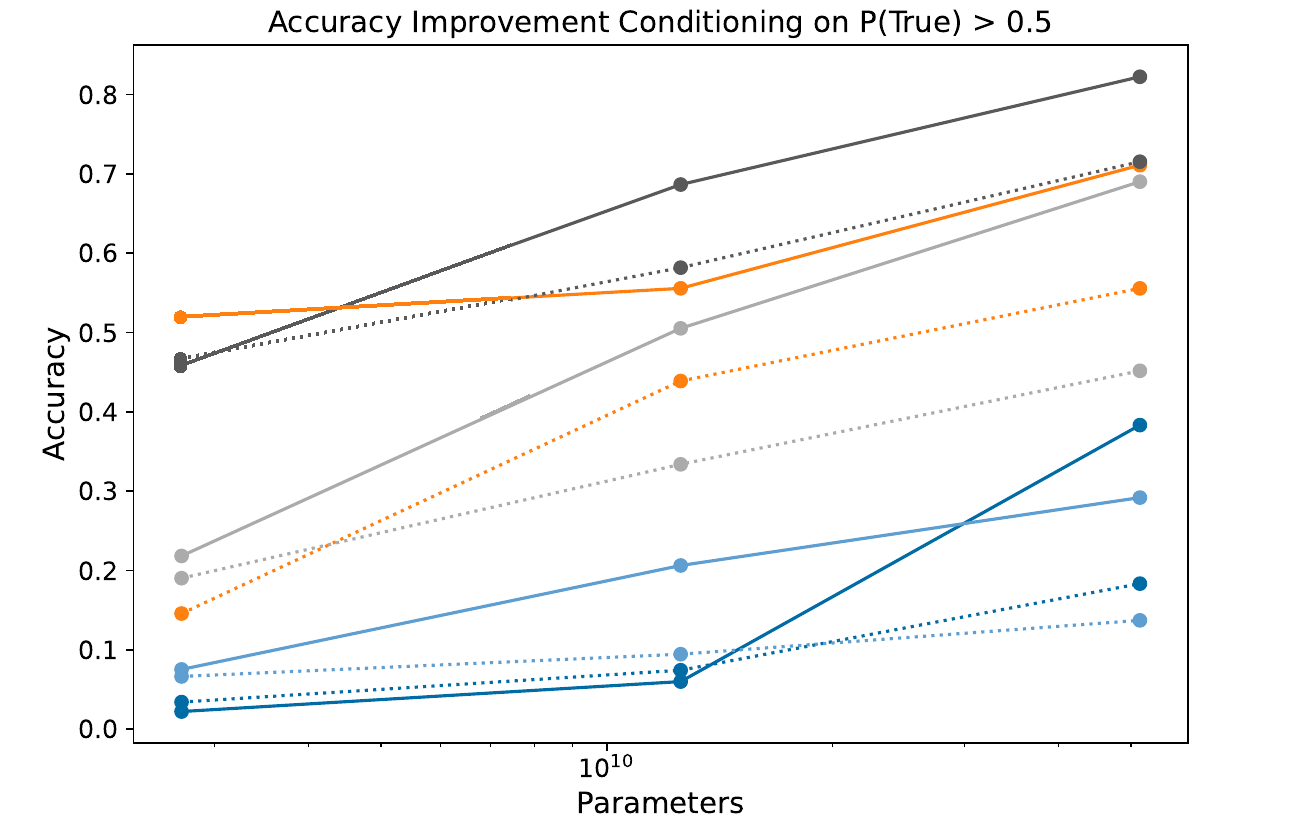
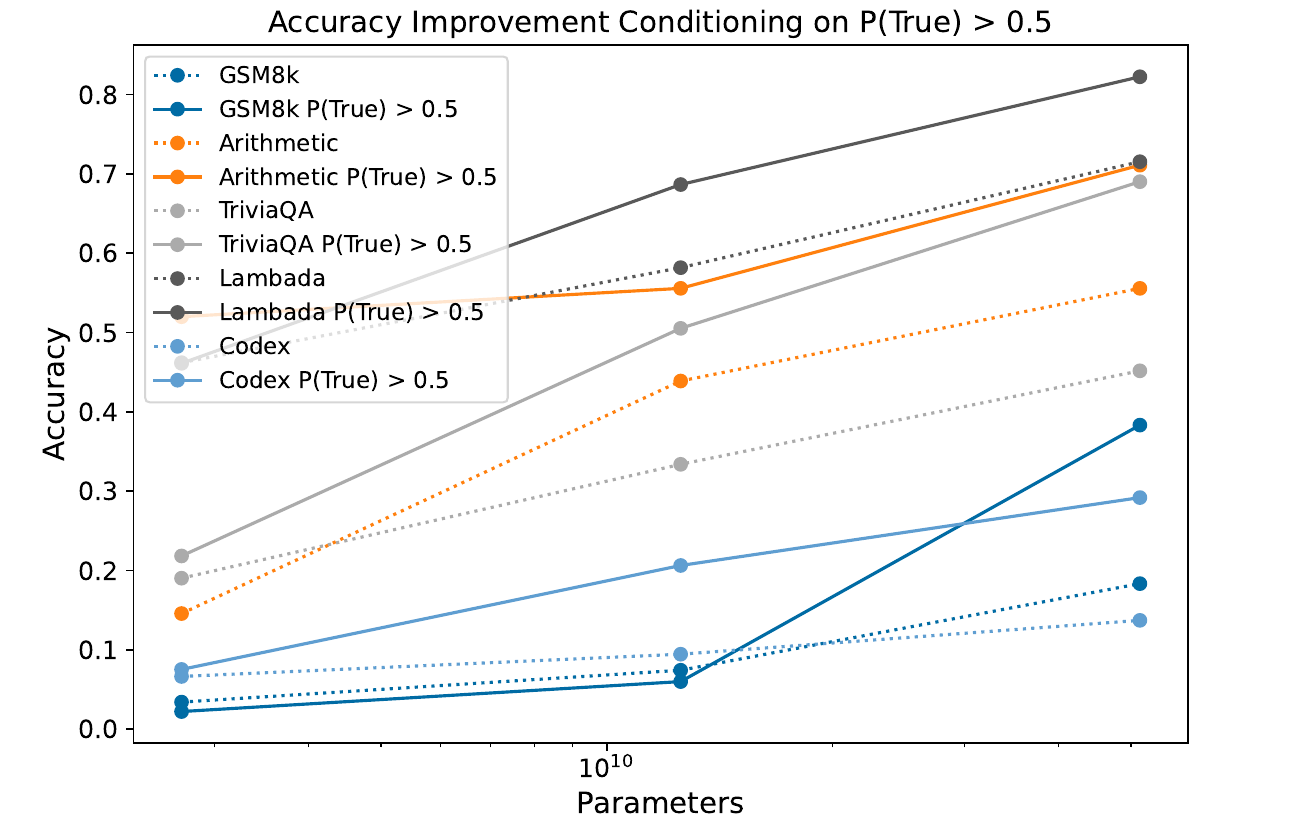
lec06: round-3 review fixes
Kadavath Fig. 1 right restored as an unmodified crop (no reconstructed
segments) with the enlarged key; exact forcing condition on the Kalai
bound; two-option task stated on the trigram slide; deferral-rule note
no longer claims a quantified miss rate and defers on empty sets;
OUTLINE and log 14–15.

Changed region(s): [[0.1236, 0.061, 0.4015, 0.4878], [0.3707, 0.4878, 0.4015, 0.5183]]

diff --git a/courses/trustworthy-ai/lec06-hallucination-note.html b/courses/trustworthy-ai/lec06-hallucination-note.html
@@ -188,21 +188,21 @@ Informally (the paper's 99%-confidence version): <em>hallucination rate $\gtrsim
 
 <article>
 <h2>Poor Model ⇒ Errors, Precisely</h2>
-<p>The theorem: generation error is at least twice the best achievable classification error, minus two small terms. Read it conditionally: if no thresholded model in the family classifies valid versus error responses well, generation must make errors. V3's miscounts show one model failing; they do not show that its whole family must fail.</p>
-<p><span class="kt">Key takeaway:</span> If classification is hard for the whole model family, generation errors are forced.</p>
+<p>The theorem: generation error is at least twice the best achievable classification error, minus two correction terms. Read it conditionally: if no thresholded model in the family classifies valid versus error responses well, generation must make errors. V3's miscounts show one model failing; they do not show that its whole family must fail.</p>
+<p><span class="kt">Key takeaway:</span> Errors are forced when $2\,\mathrm{opt}(\mathcal G) &gt; \max_c|\mathcal V_c| / \min_c|\mathcal E_c| + \delta$.</p>
 <div class="detail">
 <h3>Definitions</h3>
 <p>(Kalai et al. 2025, §3.3.2.) For each prompt $c$, $\mathcal V_c$ and $\mathcal E_c$ are the valid and error responses. $\mathrm{err} := \hat p(\mathcal E) = \sum_{(c,r)\in\mathcal E}\mu(c)\,\hat p(r\mid c)$ is the probability the model generates an error response, with prompts $c \sim \mu$. <strong>The distribution $D$</strong>: with probability $1/2$ draw $x = (c,r) \sim p$ (a valid training dialogue), and with probability $1/2$ draw $c \sim \mu$ and $r$ uniformly from $\mathcal E_c$; the target is $f(x) = +$ iff $x$ is valid. <strong>The term $\delta$</strong>: $\delta := |\hat p(A) - p(A)|$ for $A := \{(c,r) : \hat p(r\mid c) &gt; 1/\min_c|\mathcal E_c|\}$, the gap between how much mass the model and the training distribution put on responses the model rates above that threshold (a calibration-type quantity, small for a calibrated base model). The classifier family thresholds a language model's probability: $g_{\theta,t}(c,r) = +$ if $\hat p_\theta(r\mid c) &gt; t$, else $-$, over all $\theta \in \Theta$, $t \in [0,1]$. Then $\mathrm{opt}(\mathcal G) = \min_{g\in\mathcal G}\Pr_{x\sim D}[g(x)\ne f(x)]$ is the best error of any thresholded model in the family.</p>
 <h3>Theorem &amp; proof</h3>
 <p><strong>Statement</strong> (the paper's §3.3.2, following from its Theorem 1):
 $$\mathrm{err} \;\ge\; 2\,\mathrm{opt}(\mathcal G) \;-\; \frac{\max_c |\mathcal V_c|}{\min_c |\mathcal E_c|} \;-\; \delta.$$
-Proof in the paper (Theorem 1 reduces generation to the Is-It-Valid classification problem). <strong>The bound is conditional.</strong> It forces errors only when $\mathrm{opt}(\mathcal G)$ is large, a statement about every model in the family. The letter-counting example is the paper's motivation ("this suggests"), not a proved instance: one model's mistakes do not show the family's incapacity. The proved instance is on the next slide.</p>
+Proof in the paper (Theorem 1 reduces generation to the Is-It-Valid classification problem). <strong>The bound is conditional.</strong> It forces errors only when $2\,\mathrm{opt}(\mathcal G) &gt; \max_c|\mathcal V_c|/\min_c|\mathcal E_c| + \delta$; a large $\mathrm{opt}(\mathcal G)$ alone is not enough, since the two correction terms are not automatically small. $\mathrm{opt}(\mathcal G)$ is a statement about every model in the family. The letter-counting example is the paper's motivation ("this suggests"), not a proved instance: one model's mistakes do not show the family's incapacity. The proved instance is on the next slide.</p>
 </div>
 </article>
 
 <article>
 <h2>A Proven Case: Trigram Models</h2>
-<p>A trigram model predicts each word from the previous two only. "She lost it and was completely out of" should end with "her mind", "He lost it and was completely out of" with "his mind". Both end in "out of", so the model cannot tell them apart and must be wrong half the time.</p>
+<p>A trigram model predicts each word from the previous two only. "She lost it and was completely out of" should end with "her mind", "He lost it and was completely out of" with "his mind". Both end in "out of", so the model cannot tell them apart and must be wrong half the time. This is a stipulated two-option task: the model must choose "her mind" or "his mind", with no abstention; correctness is defined for this example, not a universal rule about English completions.</p>
 <p><span class="kt">Key takeaway:</span> Here the family itself is provably poor: every trigram model errs at least half the time.</p>
 <div class="detail">
 <h3>Theorem &amp; proof</h3>
@@ -420,9 +420,9 @@ with a single scalar $T &gt; 0$ fitted by minimizing NLL on a validation set. Pr
 
 <article>
 <h2>Filtering by P(True) Mostly Raises Accuracy</h2>
-<p>Keep only the answers the model itself rates above 0.5. For most tasks and model sizes in the plot, accuracy rises: the solid lines (kept answers) lie above the dotted lines (all answers). Not for all: GSM8k at the two smallest sizes and Lambada at the smallest have the solid line at or below the dotted one.</p>
+<p>Keep only the answers the model itself rates above 0.5. For most tasks and model sizes in the plot, accuracy rises: the solid lines (kept answers) lie above the dotted lines (all answers). Not for all: GSM8k at the two smallest sizes has the solid line below the dotted one, and Lambada at the smallest size shows no visible gain.</p>
 <p><span class="kt">Key takeaway:</span> The self-estimate is useful as a filter, even though it is imperfect.</p>
-<p><span class="kt">Slide figure:</span> Kadavath et al. (2022), Fig. 1, right panel: accuracy versus parameters for GSM8k, Arithmetic, TriviaQA, Lambada and Codex. The paper's small embedded legend was removed and re-typeset beside the plot; line segments that ran under it were restored as straight-line continuations of the visible segments.</p>
+<p><span class="kt">Slide figure:</span> Kadavath et al. (2022), Fig. 1, right panel: accuracy versus parameters for GSM8k, Arithmetic, TriviaQA, Lambada and Codex. The plot is the paper's figure, unmodified (its small embedded legend is still inside); an enlarged key is typeset beside it.</p>
 </article>
 
 <article>
@@ -596,7 +596,7 @@ $$\Pr[\,Y_{n+1} \in C(X_{n+1})\,] = \frac{k}{n+1} \;\ge\; \frac{(n+1)(1-\alpha)}
 <p><span class="kt">Key takeaway:</span> A large set is a built-in signal to abstain.</p>
 <div class="detail">
 <h3>Definitions</h3>
-<p><strong>Set-size deferral rule (course notes).</strong> Fix a budget $k$ and act as: answer with $C(x)$'s single element if $|C(x)| = 1$; present the shortlist if $1 &lt; |C(x)| \le k$; defer to a human if $|C(x)| &gt; k$. This is selective prediction with a conformal trigger: whatever the deferral policy, the events "truth missed" satisfy $\Pr[\,Y \notin C(X)\,] \le \alpha$ marginally, so the rule inherits a quantified miss rate rather than a hoped-for one. The set being <em>large</em> is itself informative — it certifies that the model cannot separate candidates at the chosen confidence level.</p>
+<p><strong>Set-size deferral rule (course notes).</strong> Fix a budget $k$ and act as: treat $C(x)$'s single element as a candidate answer for a separately validated decision policy if $|C(x)| = 1$; present the shortlist if $1 &lt; |C(x)| \le k$; defer to a human if $C(x)$ is empty or $|C(x)| &gt; k$. The original sets retain marginal coverage, $\Pr[\,Y \notin C(X)\,] \le \alpha$; the selected-answer error rate requires separate validation. The set being <em>large</em> is itself informative — it certifies that the model cannot separate candidates at the chosen confidence level; an <em>empty</em> set signals that no label is plausible enough.</p>
 <p><strong>Singletons are not certified.</strong> Write $S$ for the event $|C(X)| = 1$ and $W$ for "the singleton is wrong", i.e. $S \wedge Y \notin C(X)$. The guarantee gives $\Pr[W] \le \Pr[Y \notin C(X)] \le \alpha$: the <em>joint</em> probability of being wrong <em>and</em> singleton. The error rate among singletons is $\Pr[\,Y \notin C(X) \mid S\,] = \Pr[W]/\Pr[S]$, which need not be $\le \alpha$; if singletons are rare, it can be much larger. Acting automatically on singletons therefore needs its own validation of that conditional error rate.</p>
 </div>
 </article>

diff --git a/courses/trustworthy-ai/lec06-hallucination.html b/courses/trustworthy-ai/lec06-hallucination.html
@@ -238,7 +238,7 @@
     <li>$\mathrm{opt}(\mathcal{G}) = \min_{g\in\mathcal{G}} \Pr_{x\sim D}[\,g(x) \ne f(x)\,]$: best error of any thresholded model in the family</li>
     <li>$\mathcal{V}_c, \mathcal{E}_c$: valid / error responses to prompt $c$; $\delta$: the model's miscalibration</li>
   </ul>
-  <p class="muted"><strong>If</strong> $\mathrm{opt}(\mathcal{G})$ is large ⇒ errors forced. V3's failures alone do not show it is.</p>
+  <p class="muted">Errors are forced when $2\,\mathrm{opt}(\mathcal{G}) > \max_c|\mathcal{V}_c| / \min_c|\mathcal{E}_c| + \delta$. V3's failures alone do not show this.</p>
   <div class="cite cite-left">Kalai, Nachum, Vempala, and Zhang, "Why Language Models Hallucinate", 2025 — §3.3.2 (from Theorem 1).</div>
 </div>
 <!-- 16. A Proven Case: Trigram Models -->
@@ -246,6 +246,7 @@
   <h2>A Proven Case: Trigram Models</h2>
   <div class="divider"></div>
   <div style="display:flex;justify-content:center;margin:4px 0;"><svg viewBox="0 0 900 200" style="width:100%;max-width:1000px;"><text x="10" y="50" font-size="20" fill="#1a1a1a" font-weight="700">c<tspan baseline-shift="sub" font-size="14">1</tspan></text><text x="50" y="50" font-size="20" fill="#1a1a1a">She lost it and was completely</text><rect x="345" y="24" width="96" height="36" rx="5" fill="#e8ecf0" stroke="#003876" stroke-width="2"/><text x="393" y="50" font-size="20" fill="#003876" text-anchor="middle" font-weight="700">out of</text><text x="460" y="50" font-size="20" fill="#1a1a1a">…</text><text x="500" y="50" font-size="20" fill="#2e8b57" font-weight="700">→ her mind</text><text x="10" y="120" font-size="20" fill="#1a1a1a" font-weight="700">c<tspan baseline-shift="sub" font-size="14">2</tspan></text><text x="50" y="120" font-size="20" fill="#1a1a1a">He lost it and was completely</text><rect x="345" y="94" width="96" height="36" rx="5" fill="#e8ecf0" stroke="#003876" stroke-width="2"/><text x="393" y="120" font-size="20" fill="#003876" text-anchor="middle" font-weight="700">out of</text><text x="460" y="120" font-size="20" fill="#1a1a1a">…</text><text x="500" y="120" font-size="20" fill="#2e8b57" font-weight="700">→ his mind</text><text x="660" y="88" font-size="19" fill="#d94040" font-weight="700">same 2-word window</text><text x="660" y="112" font-size="19" fill="#d94040" font-weight="700">⇒ same prediction</text><text x="450" y="180" font-size="18" fill="#6b7280" text-anchor="middle">a trigram model sees only the last two words: it cannot tell the two prompts apart</text></svg></div>
+  <p style="text-align:center;margin:0 0 8px;"><strong>Two-option task:</strong> choose “her mind” or “his mind”; no abstention.</p>
   <div class="card">
     <h3>Theorem 3 → Corollary 2 (Kalai et al., 2025).</h3>
     <p>If $|\mathcal{V}_c| = 1$ and $C = \min_c |\mathcal{E}_c| + 1$: $\;\mathrm{err} \ge 2\,(1 - 1/C)\,\mathrm{opt}(\mathcal{G})$.</p>
@@ -535,7 +536,7 @@
     <li><strong>dotted</strong>: all answers</li>
   </ul><svg viewBox="0 0 300 270" style="width:100%;max-width:300px;"><text x="35" y="30" font-size="18" fill="#1a1a1a" text-anchor="middle" font-weight="700">solid</text><text x="105" y="30" font-size="18" fill="#1a1a1a" text-anchor="middle" font-weight="700">dotted</text><line x1="10" y1="70" x2="60" y2="70" stroke="#595959" stroke-width="4"/><line x1="80" y1="70" x2="130" y2="70" stroke="#595959" stroke-width="4" stroke-dasharray="4 6"/><text x="145" y="77" font-size="20" fill="#1a1a1a">Lambada</text><line x1="10" y1="110" x2="60" y2="110" stroke="#ff800e" stroke-width="4"/><line x1="80" y1="110" x2="130" y2="110" stroke="#ff800e" stroke-width="4" stroke-dasharray="4 6"/><text x="145" y="117" font-size="20" fill="#1a1a1a">Arithmetic</text><line x1="10" y1="150" x2="60" y2="150" stroke="#ababab" stroke-width="4"/><line x1="80" y1="150" x2="130" y2="150" stroke="#ababab" stroke-width="4" stroke-dasharray="4 6"/><text x="145" y="157" font-size="20" fill="#1a1a1a">TriviaQA</text><line x1="10" y1="190" x2="60" y2="190" stroke="#006ba4" stroke-width="4"/><line x1="80" y1="190" x2="130" y2="190" stroke="#006ba4" stroke-width="4" stroke-dasharray="4 6"/><text x="145" y="197" font-size="20" fill="#1a1a1a">GSM8k</text><line x1="10" y1="230" x2="60" y2="230" stroke="#5f9ed1" stroke-width="4"/><line x1="80" y1="230" x2="130" y2="230" stroke="#5f9ed1" stroke-width="4" stroke-dasharray="4 6"/><text x="145" y="237" font-size="20" fill="#1a1a1a">Codex</text></svg></div>
   </div>
-  <div class="cite cite-left">Kadavath et al., "Language Models (Mostly) Know What They Know", 2022 — Fig. 1, right (legend re-typeset at right).</div>
+  <div class="cite cite-left">Kadavath et al., "Language Models (Mostly) Know What They Know", 2022 — Fig. 1, right (unmodified; enlarged key added at right).</div>
 </div>
 
 <!-- 34. Verbalized Confidence: GPT-3, GPT-3.5 -->

diff --git a/courses/trustworthy-ai/OUTLINE.md b/courses/trustworthy-ai/OUTLINE.md
@@ -890,12 +890,12 @@ reasoning-model hallucination; sycophancy one-slide touchpoint (full treatment i
 |---|---|---|---|
 | Title / Contents | 1–2 | `:26`, `:38` | |
 | **01 — What Hallucination Is** | 3–10 | `:71` | definition (Ji survey) `:79` · **fluency fools us (real vs invented citation test; 2026-10)** `:94` · Fake Citations, Again (Lacey v. State Farm) `:103` · **Invented Medical Facts (infarct defined; 2026-10)** `:121` · two flavors of wrong `:139` · not the same as a bug `:153` · why this matters `:168` |
-| **02 — Why Models Hallucinate** | 11–22 | `:181` | training objective `:189` · no truth grounding (Kalai Fig 1) `:201` · **Counting With a Poor Model (DEEPSEEK letters vs tokens; 2026-10)** `:214` · **Poor Model ⇒ Errors, Precisely (conditional Kalai §3.3.2 bound; 2026-10)** `:228` · **A Proven Case: Trigram Models (Thm 3 / Cor 2)** `:244` · plausible beats true `:257` · pressure to always answer `:279` · exam-taking analogy `:296` · Guessing, Measured `:313` · where errors concentrate (FActScore Fig 2 + plot description) `:341` · knowledge cutoff `:358` |
-| **03 — Calibration** | 23–36 | `:374` | confidence as a number `:382` · calibration promise (100-dot grid) `:394` · reliability diagram `:409` · over- vs under-confident `:431` · **measuring the gap (gap = \|conf − acc\|; 2026-10)** `:445` · **reading ECE (area picture, 0.1705; 2026-10)** `:462` · bigger is not better `:479` · temperature `:496` · **Kadavath P(True) histogram** `:511` · **Filtering by P(True) Mostly Raises Accuracy (legend re-typeset)** `:527` · **verbalized confidence GPT-3/3.5** `:541` · **GPT-4/Vicuna** `:556` · Colab `:572` |
-| **04 — Conformal Prediction** | 37–53 | `:588` | one answer to a set (three photos, typeset sets) `:596` · **Candidates, Native Output, Conformal Set** `:608` · coverage guarantee `:622` · **Two Assumptions (A1 exchangeable, A2 fixed score)** `:638` · how it works (k, q̂ = ∞) `:651` · recipe figure `:665` · **Coverage Theorem (upper bound only without ties)** `:673` · **Proof: Setup (joint-draw uniform rank)** `:690` · **Proof: Rank Step** `:702` · **Proof (continued)** `:719` · prediction-set picture `:733` · **What the Guarantee Covers** `:741` · **Marginal ≠ Conditional** `:761` · abstention (singleton ≠ certified) `:776` · medical triage (clinician review) `:792` · trade-off `:808` |
-| **05 — Detection & Grounding** | 54–63 | `:818` | two strategies `:826` · self-consistency `:840` · semantic entropy `:857` · entropy picture `:871` · RAG `:896` · why RAG helps `:910` · RAG is not a cure `:926` · teaching "I don't know" `:942` · scoring rule `:958` |
-| **06 — Frontier 2025–26** | 64–74 | `:971` | **Misconceptions (TruthfulQA examples; 2026-10)** `:978` · **In the Wild: Search Answers, 2024 (rocks / glue)** `:992` · **Should a Truthful Model Share Our Errors?** `:1004` · TruthfulQA `:1021` · **Benchmarks table (4 benchmarks)** `:1036` · **Measuring Faithfulness: Vectara HHEM (Sep 22, 2026 data)** `:1051` · reasoning models `:1089` · sycophancy `:1106` · factuality evaluations `:1118` · open problems `:1135` |
-| Takeaways / Closer | 75–76 | — | `:1150`, `:1164` |
+| **02 — Why Models Hallucinate** | 11–22 | `:181` | training objective `:189` · no truth grounding (Kalai Fig 1) `:201` · **Counting With a Poor Model (DEEPSEEK letters vs tokens; 2026-10)** `:214` · **Poor Model ⇒ Errors, Precisely (conditional Kalai §3.3.2 bound; 2026-10)** `:228` · **A Proven Case: Trigram Models (Thm 3 / Cor 2)** `:244` · plausible beats true `:258` · pressure to always answer `:280` · exam-taking analogy `:297` · Guessing, Measured `:314` · where errors concentrate (FActScore Fig 2 + plot description) `:342` · knowledge cutoff `:359` |
+| **03 — Calibration** | 23–36 | `:375` | confidence as a number `:383` · calibration promise (100-dot grid) `:395` · reliability diagram `:410` · over- vs under-confident `:432` · **measuring the gap (gap = \|conf − acc\|; 2026-10)** `:446` · **reading ECE (area picture, 0.1705; 2026-10)** `:463` · bigger is not better `:480` · temperature `:497` · **Kadavath P(True) histogram** `:512` · **Filtering by P(True) Mostly Raises Accuracy (unmodified plot + enlarged key)** `:528` · **verbalized confidence GPT-3/3.5** `:542` · **GPT-4/Vicuna** `:557` · Colab `:573` |
+| **04 — Conformal Prediction** | 37–53 | `:589` | one answer to a set (three photos, typeset sets) `:597` · **Candidates, Native Output, Conformal Set** `:609` · coverage guarantee `:623` · **Two Assumptions (A1 exchangeable, A2 fixed score)** `:639` · how it works (k, q̂ = ∞) `:652` · recipe figure `:666` · **Coverage Theorem (upper bound only without ties)** `:674` · **Proof: Setup (joint-draw uniform rank)** `:691` · **Proof: Rank Step** `:703` · **Proof (continued)** `:720` · prediction-set picture `:734` · **What the Guarantee Covers** `:742` · **Marginal ≠ Conditional** `:762` · abstention (singleton ≠ certified) `:777` · medical triage (clinician review) `:793` · trade-off `:809` |
+| **05 — Detection & Grounding** | 54–63 | `:819` | two strategies `:827` · self-consistency `:841` · semantic entropy `:858` · entropy picture `:872` · RAG `:897` · why RAG helps `:911` · RAG is not a cure `:927` · teaching "I don't know" `:943` · scoring rule `:959` |
+| **06 — Frontier 2025–26** | 64–74 | `:972` | **Misconceptions (TruthfulQA examples; 2026-10)** `:979` · **In the Wild: Search Answers, 2024 (rocks / glue)** `:993` · **Should a Truthful Model Share Our Errors?** `:1005` · TruthfulQA `:1022` · **Benchmarks table (4 benchmarks)** `:1037` · **Measuring Faithfulness: Vectara HHEM (Sep 22, 2026 data)** `:1052` · reasoning models `:1090` · sycophancy `:1107` · factuality evaluations `:1119` · open problems `:1136` |
+| Takeaways / Closer | 75–76 | — | `:1151`, `:1165` |
 
 **Key definitions / citations (source-verified; 2026-10 additions checked against the saved PDFs):**
 - Hallucination survey — `:79` — Ji et al., ACM Computing Surveys 2023.
@@ -904,30 +904,30 @@ reasoning-model hallucination; sycophancy one-slide touchpoint (full treatment i
 - Kalai, Nachum, Vempala, and Zhang, 2025 (arXiv 2509.04664) — IIV reduction Fig 1 `:201`;
   DEEPSEEK letter count (§1: V3 "2" or "3" in ten trials; §3.3.2: R1 spells it out, tokens D/EEP/SEE/K) `:214`;
   err ≥ 2·opt(G) − max|V_c|/min|E_c| − δ (§3.3.2, from Theorem 1; stated conditionally) `:228`;
-  trigram limitation (Theorem 3, Corollary 2: err ≥ 2(1−1/C)opt(G)) `:244`; binary grading `:279`, `:296`, `:958`.
-- FActScore — `:341`, `:1036`, `:1118` — Min et al., EMNLP 2023.
-- Calibration / ECE / temperature — `:394`–`:496` — Guo, Pleiss, Sun, and Weinberger, ICML 2017 (ECE Eq. 3).
+  trigram limitation (Theorem 3, Corollary 2: err ≥ 2(1−1/C)opt(G)) `:244`; binary grading `:280`, `:297`, `:959`.
+- FActScore — `:342`, `:1037`, `:1119` — Min et al., EMNLP 2023.
+- Calibration / ECE / temperature — `:395`–`:497` — Guo, Pleiss, Sun, and Weinberger, ICML 2017 (ECE Eq. 3).
   ECE example (shares .10/.10/.15/.25/.40, gaps .03/.07/.15/.20/.22 → 0.1705) is a course illustration.
-- Self-knowledge P(True) — `:511`, `:527` — Kadavath et al., 2022, Fig 1 (left / right; legend re-typeset).
-- Verbalized confidence — `:541`, `:556` — Xiong et al., ICLR 2024, Fig 2 (GSM8K).
-- Conformal — `:596`–`:761` — Angelopoulos and Bates, 2021 (Theorem 1, Appendix D, Theorem D.2);
+- Self-knowledge P(True) — `:512`, `:528` — Kadavath et al., 2022, Fig 1 (left / right; right panel unmodified, enlarged key beside it).
+- Verbalized confidence — `:542`, `:557` — Xiong et al., ICLR 2024, Fig 2 (GSM8K).
+- Conformal — `:597`–`:762` — Angelopoulos and Bates, 2021 (Theorem 1, Appendix D, Theorem D.2);
   Vovk, Gammerman, and Saunders, ICML 1999. k = ⌈(n+1)(1−α)⌉, q̂ = ∞ when k = n+1; ties keep the lower bound.
-- Conditional coverage limits — `:761` — Vovk, ACML 2012; Lei and Wasserman, JRSS-B 2014 (Lemma 1);
+- Conditional coverage limits — `:762` — Vovk, ACML 2012; Lei and Wasserman, JRSS-B 2014 (Lemma 1);
   Foygel Barber, Candès, Ramdas, and Tibshirani, Information and Inference 2021.
-- TruthfulQA — `:978`, `:1004`, `:1021`, `:1036` — Lin, Hilton, and Evans, ACL 2022 (Fig 1, Fig 2, Table 6, §2.1).
-- AI Overviews rocks / glue — `:992` — Reid (Google), "AI Overviews: About last week", Google blog, May 30, 2024.
-- SimpleQA — `:313`, `:1036` — Wei et al., 2024 (grades: correct / incorrect / not attempted).
-- Vectara HHEM-2.3 — `:1051` — leaderboard README, updated Sep. 22, 2026 (top six rows; 7,700+ articles; temperature 0).
-- Self-consistency `:840` — Manakul et al., EMNLP 2023. Semantic entropy `:857` — Farquhar et al., Nature 2024.
-  RAG `:896` — Lewis et al., NeurIPS 2020. Sycophancy `:1106` — Sharma et al., ICLR 2024.
+- TruthfulQA — `:979`, `:1005`, `:1022`, `:1037` — Lin, Hilton, and Evans, ACL 2022 (Fig 1, Fig 2, Table 6, §2.1).
+- AI Overviews rocks / glue — `:993` — Reid (Google), "AI Overviews: About last week", Google blog, May 30, 2024.
+- SimpleQA — `:314`, `:1037` — Wei et al., 2024 (grades: correct / incorrect / not attempted).
+- Vectara HHEM-2.3 — `:1052` — leaderboard README, updated Sep. 22, 2026 (top six rows; 7,700+ articles; temperature 0).
+- Self-consistency `:841` — Manakul et al., EMNLP 2023. Semantic entropy `:858` — Farquhar et al., Nature 2024.
+  RAG `:897` — Lewis et al., NeurIPS 2020. Sycophancy `:1107` — Sharma et al., ICLR 2024.
 
-**Real images** (`figs/`, cited; 20 files on 17 slides): kalai-iiv `:201` · kalai-gpt4-calibration `:279` ·
-factscore-frequency `:341` · guo-lenet-resnet `:479` · guo-temp-scaling `:496` · kadavath-ptrue-hist `:511` ·
-kadavath-ptrue-scaling `:527` · xiong-verbalized-a `:541` · xiong-verbalized-b `:556` · conformal-squirrel-1/2/3
-`:596` · conformal-recipe `:665` · selfcheckgpt `:840` · semantic-entropy-table `:857` · rag-overview `:896` ·
-truthfulqa-size `:1021` · sharma-sycophancy `:1106` · factscore-overview `:1118`. Crops re-captured at higher
-resolution in 2026-10; kadavath-ptrue-scaling has its embedded legend removed (line segments under it restored)
-and re-typeset as an SVG key. Citations use `.cite-left`.
+**Real images** (`figs/`, cited; 20 files on 17 slides): kalai-iiv `:201` · kalai-gpt4-calibration `:280` ·
+factscore-frequency `:342` · guo-lenet-resnet `:480` · guo-temp-scaling `:497` · kadavath-ptrue-hist `:512` ·
+kadavath-ptrue-scaling `:528` · xiong-verbalized-a `:542` · xiong-verbalized-b `:557` · conformal-squirrel-1/2/3
+`:597` · conformal-recipe `:666` · selfcheckgpt `:841` · semantic-entropy-table `:858` · rag-overview `:897` ·
+truthfulqa-size `:1022` · sharma-sycophancy `:1107` · factscore-overview `:1119`. Crops re-captured at higher
+resolution in 2026-10; kadavath-ptrue-scaling is an unmodified crop (embedded legend
+kept) with an enlarged SVG key beside it. Citations use `.cite-left`.
 
 **2026-10 Albert revision (61→73; PR on branch `trustworthy-ai-lec06-albert-revision`;
 log `log/2026-10-06-trustworthy-ai-lec06-albert-revision.md`):** enlarged diagrams and fonts on orig
@@ -945,10 +945,11 @@ chart (data updated to Sep 22, 2026). Page map orig→new: 1–12 same · 13→1
 conditional-coverage claim qualified). `lec06tech.html`: fixed-score and marginal wording on Why It Holds.
 
 **Round 2 (slides-review, 2026-10-06; 73→76):** counting caption and "assuming similar training data" wording;
-Kalai bound stated conditionally plus a new trigram slide (Theorem 3 / Corollary 2); Kadavath and Xiong figures
+Kalai bound with its exact forcing condition (2 opt(G) > max|V_c|/min|E_c| + δ) plus a new trigram slide
+(Theorem 3 / Corollary 2; stipulated two-option task, no abstention); Kadavath and Xiong figures
 split into two slides each with large labels; squirrel sets re-typeset under each photo plus a separate
 candidates/native/conformal slide; theorem upper bound qualified (no ties); joint-draw uniform rank; "can break"
-exchangeability; singleton = candidate for a validated policy, clinician review, marginal miss over all patients;
+exchangeability; singleton = candidate for a validated policy, deferral rule includes empty sets, clinician review, marginal miss over all patients;
 "to every user" removed. Note synced (76 articles; P(wrong ∧ singleton) ≤ α vs P(wrong | singleton)).
 Tech P2/P11/P12: q̂ = ∞ at k = n+1, ties, A1 + A2 ⇒ exchangeable scores. Round-1→round-2 map: 1–15 same ·
 16 new · 16–30→17–31 · 31–32→32–33 · 33→34–35 · 34–35→36–37 · 36→38–39 · 37–73→40–76.

diff --git a/log/2026-10-06-trustworthy-ai-lec06-albert-revision.md b/log/2026-10-06-trustworthy-ai-lec06-albert-revision.md
@@ -155,3 +155,28 @@ Two things to check:
 • p33 title is now "Mostly Raises". Filtering does not help GSM8k at the two smallest sizes or Lambada at the smallest.
 
 Note and deck still match 1:1 (76 entries). Lint and outline-lint pass, apart from the existing false positive in the note.
+
+### 14 — slides-review → slides, 2026-10-06 14:47
+
+Round 2 resolves most issues: the enlarged figures, theorem qualifications, rank explanation, and medical-triage caveat are substantially better. *Not signed off yet—four targeted corrections remain.*
+
+• *P33 — empirical figure integrity.* Do not reconstruct hidden line segments or markers by visual extrapolation. “Legend re-typeset” does not disclose those changes. Restore the untouched plot with your external readable key, or extract the original vector paths/use verified source data. Keep the “mostly raises” qualification.
+
+• *P15 — precise condition.* Large opt(G) alone does not force a positive error bound. Replace the takeaway with: “Errors are forced when 2 opt(G) > max|V_c|/min|E_c| + δ.” In the notes, replace “two small terms” with “two correction terms”—they are not automatically small. [Source theorem](https://arxiv.org/html/2509.04664v1#S3.SS2)
+
+• *P16 — specify the toy task.* Add “Two-option task: choose ‘her mind’ or ‘his mind’; no abstention.” This makes clear that correctness is stipulated for this example, not a universal rule about English completions.
+
+• *P51 notes — remove the leftover overclaim.* The older “Set-size deferral rule” paragraph still says the policy “inherits a quantified miss rate,” despite the correct singleton caveat added below it. Replace with: “The original sets retain marginal coverage; the selected-answer error rate requires separate validation.” Include empty sets in the deferral rule.
+
+Please send the corrected PDF and sources; keep PR #40 draft pending my explicit confirmation.
+
+### 15 — slides → slides-review, 2026-10-06 14:50 (with attachment lec06-review-package.zip)
+
+Round-3 package attached (lec06-review-package.zip): deck PDF (76 pp, page numbers unchanged), tech PDF, deck/note/tech HTML, and pagemap-and-citations.md updated. PR #40 stays draft pending your confirmation; fixes pushed to the same branch.
+
+• P33: reverted to an unmodified crop of Fig. 1 right (embedded legend kept, no reconstructed segments or markers), with the enlarged key beside it. Cite now reads "unmodified; enlarged key added at right". "Mostly raises" kept. Note: GSM8k worse at the two smallest sizes; Lambada shows no visible gain at the smallest. All captured figures in the deck are now crop-only.
+• P15: takeaway is now "Errors are forced when 2 opt(G) > max|V_c|/min|E_c| + δ." Note says "two correction terms" and that a large opt(G) alone is not enough.
+• P16: added "Two-option task: choose "her mind" or "his mind"; no abstention." This matches the paper's pure multiple-choice setting ("without IDK", Theorem 3). The note says correctness is stipulated for this example.
+• P51 notes: the deferral-rule paragraph now reads "The original sets retain marginal coverage; the selected-answer error rate requires separate validation." The rule defers on empty sets as well as large ones, and the singleton is only a candidate for a validated policy. "Inherits a quantified miss rate" is gone.
+
+Lint and outline-lint pass, apart from the existing false positive in the note. Note and deck still match 1:1 (76).
